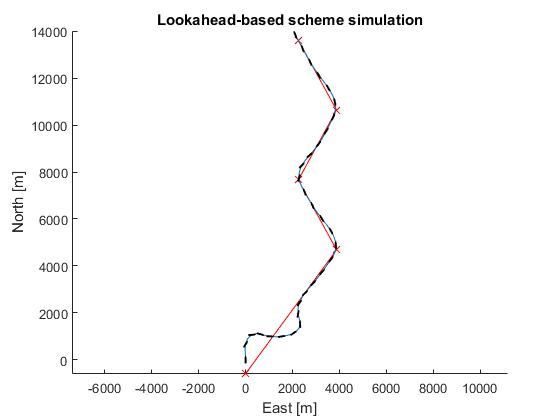
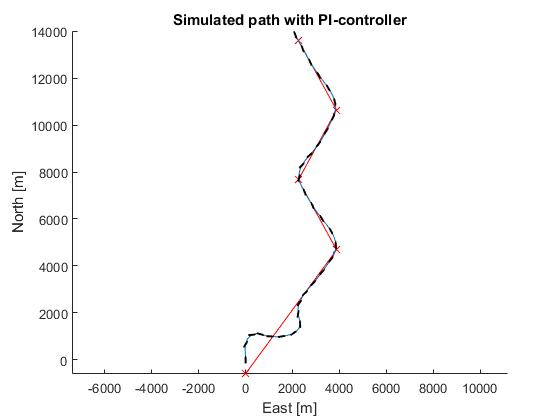
Fixed small bug in simulink task 2.3

Changed region(s): [[0.2732, 0.031, 0.7589, 0.0619]]

diff --git a/Task 2.3/run_task_2_3.m b/Task 2.3/run_task_2_3.m
@@ -92,7 +92,7 @@ int_on = 0; %Integral action off
 sim MSFartoystyringtask23
 %Simulation results
 pathplotter(p(:,1), p(:,2), psi, tsamp, 10, tstart, tstop, 0, WP)
-title('Lookahead-based scheme simulation')
+title('Simulated path with P-controller')
 %Plotting closed loop behaviour
 plots
 

diff --git a/Task 2.3/task_2_3_int.m b/Task 2.3/task_2_3_int.m
@@ -38,6 +38,6 @@ int_on = 1; %integral action on
 sim MSFartoystyringtask23
 %Simulation results
 pathplotter(p(:,1), p(:,2), psi, tsamp, 10, tstart, tstop, 0, WP)
-title('Lookahead-based scheme simulation')
+title('Simulated path with PI-controller')
 %Plotting closed loop behaviour
 plots
